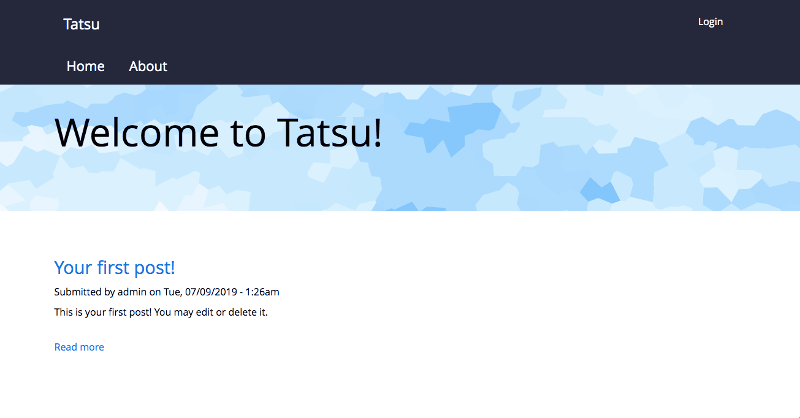
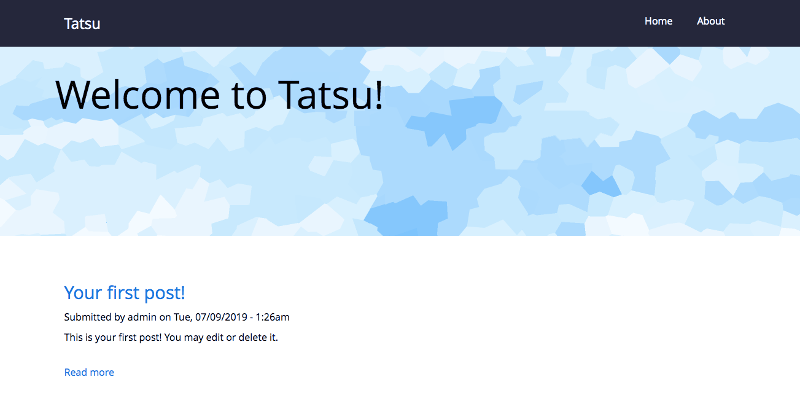
Issue #10: Changes to instructions for handling layouts

diff --git a/layouts/tatsu_hero/hero-layouts.css b/layouts/tatsu_hero/hero-layouts.css
@@ -1,0 +1,24 @@
+.hero-layouts .container, .hero-layouts .container-fluid {
+  display: flex;
+  width: 100%;
+}
+.hero-layouts .block-hero {
+  min-height: 45vh;
+}
+
+.hero-layouts .l-header {
+  margin: 0;
+}
+
+.hero-layouts .row {
+  margin: auto;
+  box-sizing: border-box;
+}
+
+.hero-layouts .l-header-inner.container, .hero-layouts .l-header-inner.container-fluid {
+  flex-direction: column;
+}
+
+.js nav .menu-dropdown a:hover, .js nav .menu-dropdown a:focus, .js nav .menu-dropdown a:active {
+  padding-right: inherit;
+}

diff --git a/README.md b/README.md
@@ -18,6 +18,24 @@ learned that it is also the name of a roller coaster in California, USA.
 
 - Install this theme using the official Backdrop CMS instructions at
   https://backdropcms.org/guide/themes
+  
+### Recommended (as reflected in screenshot)
+
+- Move /themes/tatsu/tatsu_hero 
+  to   /layouts/tatsu_hero
+  If you want the benefits of multiple hero regions with color support
+- Go to /admin/appearance/list and set Tatsu to default theme
+  
+Go to /admin/structure/layouts/manage/home  
+- Remove "Primary Navigation" block from Header region
+- Set "Header" block to use "Primary navigation" menu
+- Move "Welcome" block to first Hero region
+
+Other tips
+- To center content in hero regions add "container" class to region
+  
+  
+
 
 ## ISSUES
 
@@ -45,7 +63,8 @@ https://github.com/backdrop-contrib/tatsu/issues
 
 ### Recommended Layouts (included in theme)
 
-* Tatsu Hero (front page)
+- Tatsu Hero (front page)
+  Provided as part of theme, but must be moved to layouts directory
 
 ## MAINTAINERS
 

diff --git a/layouts/README.md b/layouts/README.md
@@ -1,0 +1,24 @@
+TO ACCESS THIS LAYOUT
+=====================
+
+You must move the directory: /tatsu/layouts/tatsu_hero
+to:                          /layouts
+
+It will be:                  /layouts/tatsu_hero
+
+Under normal circumstances, layouts are seperate from the theme. We have
+included this layout in this theme, because it contains specific regions that
+we have provided color support through this theme. 
+
+The layout will work with any theme, but the color module support is only available 
+in this theme. We may spin this layout off into it's own project at a later date.
+
+PURPOSE
+=======
+
+This layout provides multiple hero regions. This is useful, because a site editor
+can set the background color for each hero region using the color modules settings
+in this theme. 
+
+Please comment here:
+https://github.com/backdrop-contrib/tatsu/issues/10
